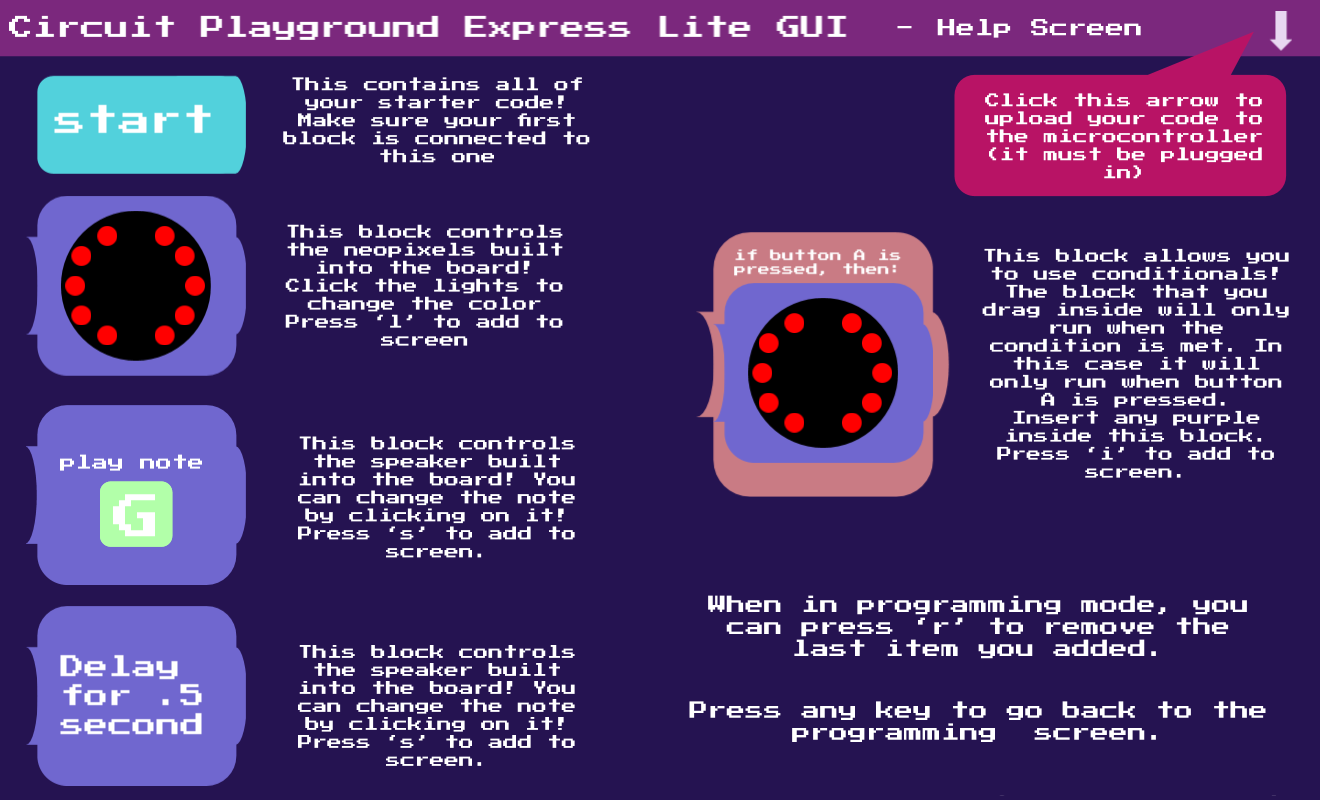
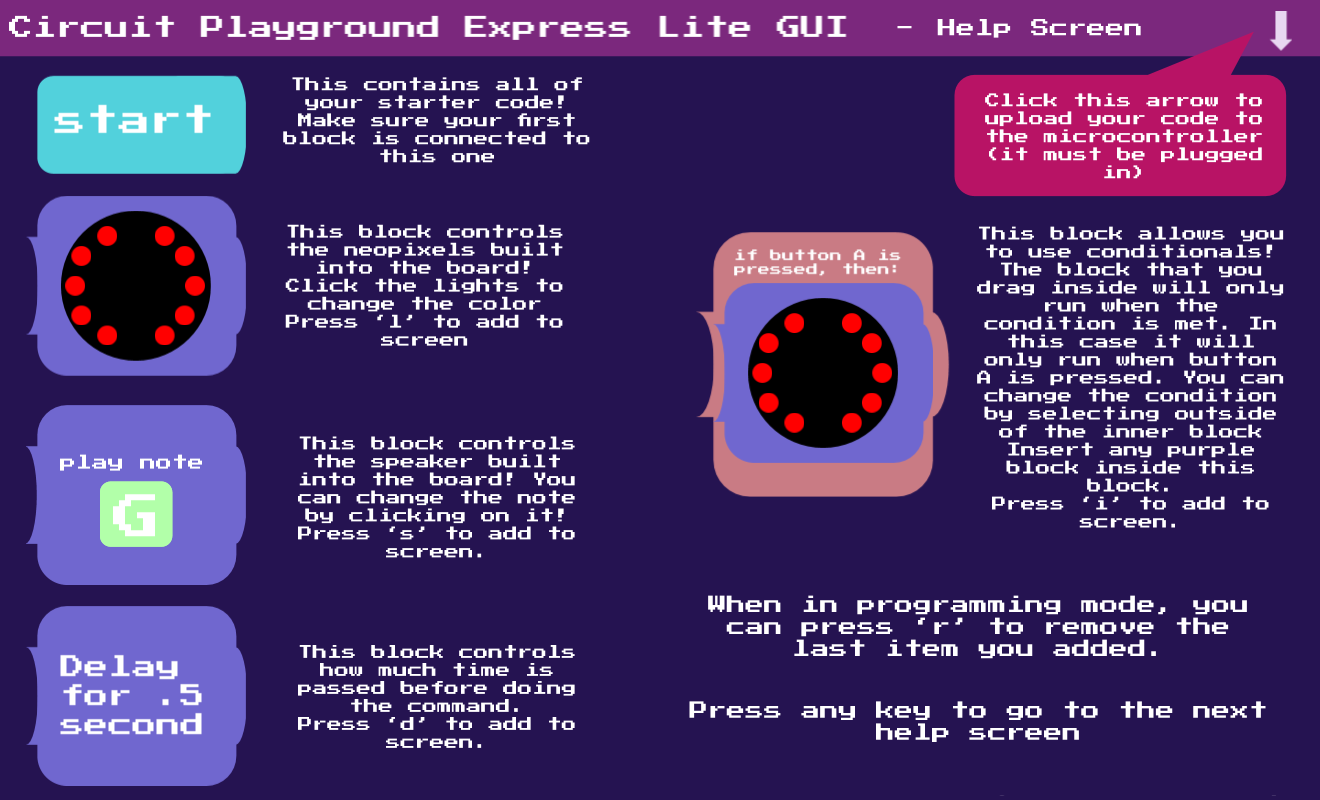
before i f anything up

Changed region(s): [[0.7455, 0.2812, 0.9939, 0.6562], [0.2174, 0.8125, 0.4348, 0.9688], [0.5902, 0.875, 0.9629, 0.9375]]

diff --git a/mainapp.py b/mainapp.py
@@ -12,6 +12,7 @@ class CircuitPlaygroundGUI(ModalApp):
         app.splash =  SplashMode()
         app.program = ProgramMode()
         app.help =  HelpMode()
+        app.help2 = HelpMode2()
         app.setActiveMode(app.splash)
 
 class SplashMode(Mode):
@@ -30,6 +31,18 @@ class HelpMode(Mode):
 
     def appStarted(mode):
         mode.screen = mode.loadImage('help_screen.png')
+
+    def keyPressed(mode, event):
+        mode.app.setActiveMode(mode.app.help2)
+
+    def redrawAll(mode, canvas):
+        canvas.create_image(mode.width/2, mode.height/2, image = \
+            ImageTk.PhotoImage(mode.screen))
+
+class HelpMode2(Mode):
+
+    def appStarted(mode):
+        mode.screen = mode.loadImage('help_screen_2.png')
 
     def keyPressed(mode, event):
         mode.app.setActiveMode(mode.app.program)
